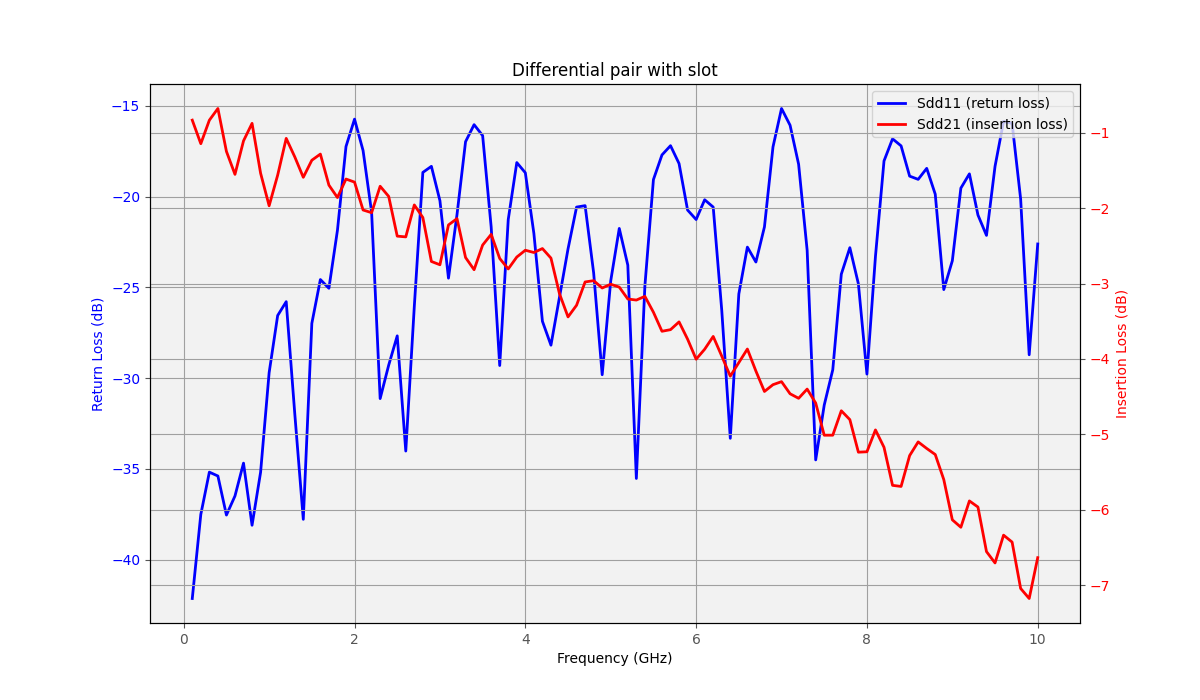
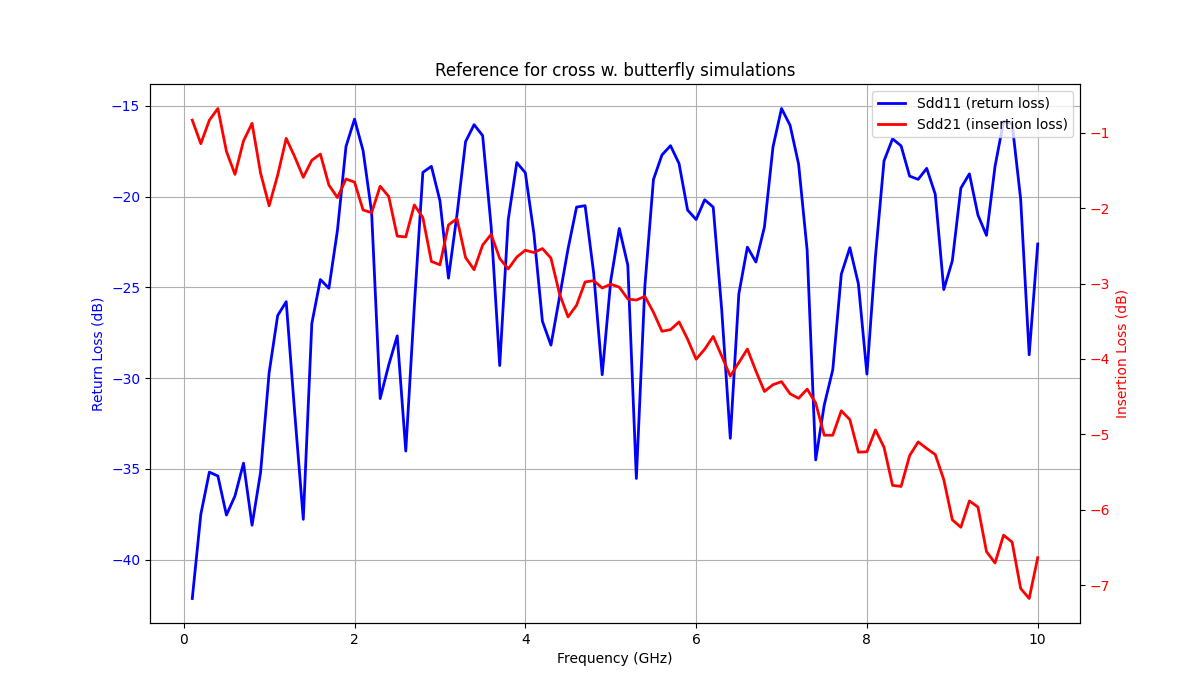
Comments on simulations. Fix S plot title of sim-diff-pair-ref-butterfly.

Changed region(s): [[0.37, 0.09, 0.6783, 0.12]]

diff --git a/sim/sim-diff-pair-ref-butterfly-replot.py b/sim/sim-diff-pair-ref-butterfly-replot.py
@@ -1,0 +1,38 @@
+import os
+import numpy as np
+import matplotlib.pyplot as plt
+
+# Load parameters from file
+base_name = os.path.splitext(os.path.basename(__file__))[0]  # e.g., "sim-diff-pair-ref-butterfly-replot"
+base_name = base_name.replace("-replot", "")  # e.g., "sim-diff-pair-ref-butterfly"
+freq, sdd11, sdd21 = np.loadtxt(
+    f"sim/{base_name}-S.csv",
+    dtype=np.complex64,
+    skiprows=1,
+    unpack=True
+)
+
+fig, ax1 = plt.subplots(figsize=(12, 7))
+freq_GHz = freq / 1e9
+
+# Sdd11 (return loss) on left y-axis (dB)
+ax1.plot(freq_GHz, 20*np.log10(np.abs(sdd11)), 'b-', linewidth=2, label='Sdd11 (return loss)')
+ax1.set_xlabel('Frequency (GHz)')
+ax1.set_ylabel('Return Loss (dB)', color='b')
+ax1.set_title("Reference for cross w. butterfly simulations")
+ax1.grid(True)
+ax1.tick_params(axis='y', labelcolor='b')
+
+# Sdd21 (insertion loss) on right y-axis (dB)
+ax2 = ax1.twinx()
+ax2.plot(freq_GHz, 20*np.log10(np.abs(sdd21)), 'r-', linewidth=2, label='Sdd21 (insertion loss)')
+ax2.set_ylabel('Insertion Loss (dB)', color='r')
+ax2.tick_params(axis='y', labelcolor='r')
+
+# Combine legends from both axes
+lines1, labels1 = ax1.get_legend_handles_labels()
+lines2, labels2 = ax2.get_legend_handles_labels()
+ax1.legend(lines1 + lines2, labels1 + labels2, loc='upper right')
+
+plt.savefig(f"sim/{base_name}-S.png")
+plt.close(fig)

diff --git a/sim/sim-diff-pair-ref-butterfly.py b/sim/sim-diff-pair-ref-butterfly.py
@@ -170,14 +170,11 @@ sdd21 = (s31 - s32 - s41 + s42)/2
 fig, ax1 = plt.subplots(figsize=(12, 7))
 freq_GHz = g.freq / 1e9
 
-fig, ax1 = plt.subplots(figsize=(12, 7))
-freq_GHz = g.freq / 1e9
-
 # Sdd11 (return loss) on left y-axis (dB)
 ax1.plot(freq_GHz, 20*np.log10(np.abs(sdd11)), 'b-', linewidth=2, label='Sdd11 (return loss)')
 ax1.set_xlabel('Frequency (GHz)')
 ax1.set_ylabel('Return Loss (dB)', color='b')
-ax1.set_title('Differential pair with slot')
+ax1.set_title("Reference for cross w. butterfly simulations")
 ax1.grid(True)
 ax1.tick_params(axis='y', labelcolor='b')
 

diff --git a/README.md b/README.md
@@ -1,4 +1,4 @@
-# Household differential pairs experiments
+# Differential pairs experiments
 
 ## Introduction and context
 
@@ -31,7 +31,7 @@ After some discussions telling that differential pairs are not totally immune to
 
 * For a thin slot, the dominant effect is not the short section with increased impedance, precisely because it is short, but the current redistribution effect explained later.
 
-## Lab session 1
+## Household experiments
 
 ### Materials
 
@@ -114,3 +114,47 @@ Total time spent between first and last pictures: 48 minutes.
 The screen used for the tests had a 1920×1080 resolution with a refresh frequency of 60 Hz. Assuming most common parameters for control data and sound channels, according to [https://en.wikipedia.org/wiki/HDMI#Resolution_and_refresh_frequency_limits](https://en.wikipedia.org/wiki/HDMI#Resolution_and_refresh_frequency_limits), a total bitrate of 3.20 Gbit/s is needed, that is 1.07 Gbit/s on each of the 3 data differential pairs, equivalent to a Nyquist frequency of 533 MHz.
 
 Definitely not a very high speed differential pair. For instance, PCI Express uses 2.5 Gbit/s differential pairs since 2003 [https://en.wikipedia.org/wiki/PCI_Express#Comparison_table](https://en.wikipedia.org/wiki/PCI_Express#Comparison_table). Still an interesting experiment, particularly for electronics students.
+
+## Study of a board
+
+### Electromagnetic simulations
+
+Before making an actual board, electromagnetic simulations were performed to determines which configuration would give the best results for a demo.
+
+Given the frequency of the link, a regular slot would need to be very long to have enough effect for the demo. So, an improved slot was used. This would not be needed for very high speed serial links.
+
+The geometry is shown below, along with the calculated eye diagram.
+
+![](sim/sim-single-slot-butterfly-model.png)
+
+![](sim/sim-single-slot-butterfly-eye.png)
+
+With a diffrential line, the effect on the eye diagram is spectacular: very clean.
+
+![](sim/sim-diff-pair-slot-butterfly-model.png)
+
+![](sim/sim-diff-pair-slot-butterfly-eye.png)
+
+The next step is to simulate the 2 slots:
+
+![](sim/sim-diff-pair-cross-butterfly-model.png)
+
+![](sim/sim-diff-pair-cross-butterfly-eye.png)
+
+A perfectly awful eye diagram.
+
+Simulation with only the vertical slot has a perfectly clean eye diagram, demonstrating the return current effect:
+
+![](sim/sim-diff-pair-slot-y-butterfly-model.png)
+
+![](sim/sim-diff-pair-slot-y-butterfly-eye.png)
+
+For the principle, a reference simulation without slots has also been performed. Eye diagram is also very clean, although not perfect due to the losses due to the length of lines:
+
+![](sim/sim-diff-pair-ref-butterfly-model.png)
+
+![](sim/sim-diff-pair-ref-butterfly-eye.png)
+
+![](sim/sim-diff-pair-ref-butterfly-S.png)
+
+These simulations confirm the underlying principle and provide guidelines for the test board.